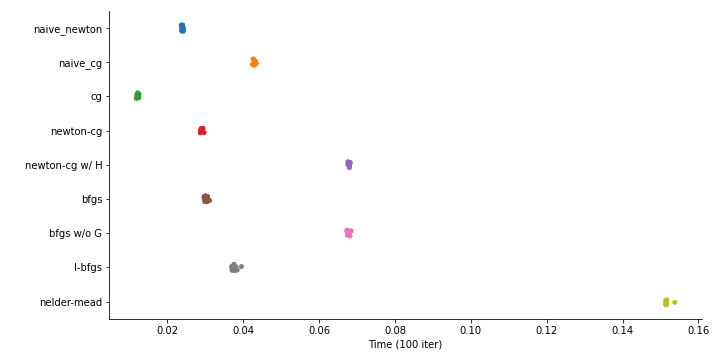
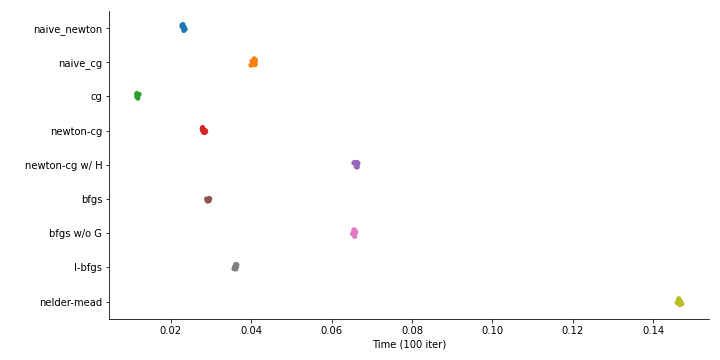
Update

diff --git a/static/slides/Lec13.html b/static/slides/Lec13.html
@@ -126,16 +126,16 @@ df
 
 ```
 ##    naive_newton  naive_cg        cg  ...  bfgs w/o G    l-bfgs  nelder-mead
-## 0      0.024026  0.042901  0.012505  ...    0.068000  0.039502     0.151316
-## 1      0.023727  0.042798  0.012187  ...    0.068270  0.038410     0.151484
-## 2      0.023827  0.043187  0.012215  ...    0.067479  0.038054     0.151309
-## 3      0.023731  0.043257  0.011944  ...    0.067384  0.037032     0.151572
-## 4      0.023656  0.043411  0.011793  ...    0.067449  0.037774     0.153752
-## 5      0.024240  0.043156  0.011898  ...    0.068136  0.037032     0.151465
-## 6      0.024140  0.043165  0.012130  ...    0.067547  0.037548     0.151656
-## 7      0.024186  0.042635  0.012265  ...    0.067350  0.036946     0.151502
-## 8      0.023961  0.042774  0.012494  ...    0.067298  0.037205     0.151382
-## 9      0.024231  0.042423  0.012336  ...    0.068449  0.037017     0.151528
+## 0      0.023563  0.040446  0.012082  ...    0.065788  0.036301     0.146798
+## 1      0.023060  0.040964  0.011677  ...    0.065560  0.035865     0.146410
+## 2      0.023302  0.041063  0.011598  ...    0.065504  0.036052     0.146640
+## 3      0.022774  0.040909  0.011547  ...    0.065739  0.035793     0.146002
+## 4      0.023025  0.040963  0.011583  ...    0.065754  0.036427     0.146700
+## 5      0.023001  0.040741  0.011775  ...    0.065971  0.035845     0.146597
+## 6      0.022881  0.040973  0.011757  ...    0.065741  0.036109     0.146857
+## 7      0.023208  0.040178  0.011600  ...    0.065504  0.036133     0.146382
+## 8      0.022823  0.039915  0.011462  ...    0.065885  0.036326     0.147206
+## 9      0.022740  0.040594  0.011547  ...    0.065205  0.035679     0.146789
 ## 
 ## [10 rows x 9 columns]
 ```
@@ -187,17 +187,17 @@ df
 
 ```
 ##         variable     value       cost_func
-## 0   naive_newton  0.004888  Well-cond quad
-## 1   naive_newton  0.004761  Well-cond quad
-## 2   naive_newton  0.004758  Well-cond quad
-## 3   naive_newton  0.004769  Well-cond quad
-## 4   naive_newton  0.004760  Well-cond quad
+## 0   naive_newton  0.004722  Well-cond quad
+## 1   naive_newton  0.004614  Well-cond quad
+## 2   naive_newton  0.004580  Well-cond quad
+## 3   naive_newton  0.004583  Well-cond quad
+## 4   naive_newton  0.004608  Well-cond quad
 ## ..           ...       ...             ...
-## 85   nelder-mead  0.050814      Rosenbrock
-## 86   nelder-mead  0.050640      Rosenbrock
-## 87   nelder-mead  0.053564      Rosenbrock
-## 88   nelder-mead  0.053616      Rosenbrock
-## 89   nelder-mead  0.052328      Rosenbrock
+## 85   nelder-mead  0.048077      Rosenbrock
+## 86   nelder-mead  0.047702      Rosenbrock
+## 87   nelder-mead  0.048485      Rosenbrock
+## 88   nelder-mead  0.047949      Rosenbrock
+## 89   nelder-mead  0.048108      Rosenbrock
 ## 
 ## [270 rows x 3 columns]
 ```
@@ -235,72 +235,72 @@ cProfile.run('run()', sort="tottime")
 ```
 
 ```
-##          112904 function calls (112804 primitive calls) in 0.048 seconds
+##          112904 function calls (112804 primitive calls) in 0.047 seconds
 ## 
 ##    Ordered by: internal time
 ## 
 ##    ncalls  tottime  percall  cumtime  percall filename:lineno(function)
-##       100    0.010    0.000    0.047    0.000 _optimize.py:1253(_minimize_bfgs)
+##       100    0.010    0.000    0.046    0.000 _optimize.py:1253(_minimize_bfgs)
 ## 13700/13600    0.004    0.000    0.016    0.000 {built-in method numpy.core._multiarray_umath.implement_array_function}
 ##      4200    0.003    0.000    0.003    0.000 {method 'reduce' of 'numpy.ufunc' objects}
 ##      1000    0.002    0.000    0.003    0.000 &lt;string&gt;:8(gradient)
 ##      1000    0.002    0.000    0.006    0.000 &lt;string&gt;:2(f)
 ##       900    0.002    0.000    0.025    0.000 _linesearch.py:91(scalar_search_wolfe1)
 ##      2000    0.002    0.000    0.004    0.000 numeric.py:2388(array_equal)
-##       900    0.001    0.000    0.010    0.000 _linesearch.py:77(derphi)
 ##      2100    0.001    0.000    0.004    0.000 fromnumeric.py:69(_wrapreduction)
-##       900    0.001    0.000    0.013    0.000 _linesearch.py:73(phi)
+##       900    0.001    0.000    0.010    0.000 _linesearch.py:77(derphi)
 ##      5200    0.001    0.000    0.004    0.000 &lt;__array_function__ internals&gt;:177(dot)
+##       900    0.001    0.000    0.013    0.000 _linesearch.py:73(phi)
 ##      2100    0.001    0.000    0.001    0.000 shape_base.py:23(atleast_1d)
 ##      1000    0.001    0.000    0.008    0.000 _differentiable_functions.py:132(fun_wrapped)
 ##      1000    0.001    0.000    0.006    0.000 _differentiable_functions.py:162(grad_wrapped)
-##       900    0.001    0.000    0.027    0.000 _linesearch.py:31(line_search_wolfe1)
 ##       900    0.001    0.000    0.027    0.000 _optimize.py:1084(_line_search_wolfe12)
+##       900    0.001    0.000    0.026    0.000 _linesearch.py:31(line_search_wolfe1)
 ##      1000    0.001    0.000    0.012    0.000 _differentiable_functions.py:264(fun)
 ##      2100    0.001    0.000    0.001    0.000 {built-in method numpy.array}
-##      2000    0.001    0.000    0.001    0.000 {built-in method numpy.arange}
 ##      1000    0.001    0.000    0.003    0.000 _optimize.py:166(vecnorm)
 ##      2100    0.001    0.000    0.002    0.000 &lt;__array_function__ internals&gt;:177(atleast_1d)
+##      2000    0.001    0.000    0.001    0.000 {built-in method numpy.arange}
 ##      2100    0.001    0.000    0.002    0.000 &lt;__array_function__ internals&gt;:177(copy)
 ##      2000    0.000    0.000    0.005    0.000 &lt;__array_function__ internals&gt;:177(array_equal)
 ##      1000    0.000    0.000    0.002    0.000 fromnumeric.py:2160(sum)
 ##      2100    0.000    0.000    0.000    0.000 fromnumeric.py:70(&lt;dictcomp&gt;)
-##      8400    0.000    0.000    0.000    0.000 {built-in method numpy.asarray}
 ##       900    0.000    0.000    0.002    0.000 _differentiable_functions.py:240(update_x)
+##      8400    0.000    0.000    0.000    0.000 {built-in method numpy.asarray}
 ##      1000    0.000    0.000    0.008    0.000 _differentiable_functions.py:270(grad)
-##      2000    0.000    0.000    0.000    0.000 {method 'copy' of 'numpy.ndarray' objects}
 ##       100    0.000    0.000    0.002    0.000 _differentiable_functions.py:86(__init__)
 ##      1000    0.000    0.000    0.002    0.000 fromnumeric.py:2675(amax)
+##       100    0.000    0.000    0.047    0.000 _minimize.py:45(minimize)
+##      2000    0.000    0.000    0.000    0.000 {method 'copy' of 'numpy.ndarray' objects}
 ##      2000    0.000    0.000    0.002    0.000 {method 'all' of 'numpy.ndarray' objects}
-##       100    0.000    0.000    0.048    0.000 _minimize.py:45(minimize)
-##      1900    0.000    0.000    0.000    0.000 {built-in method numpy.zeros}
 ##      2000    0.000    0.000    0.002    0.000 _methods.py:60(_all)
-##      5200    0.000    0.000    0.000    0.000 multiarray.py:736(dot)
+##      1900    0.000    0.000    0.000    0.000 {built-in method numpy.zeros}
 ##      2100    0.000    0.000    0.001    0.000 function_base.py:846(copy)
+##      5200    0.000    0.000    0.000    0.000 multiarray.py:736(dot)
 ##      1000    0.000    0.000    0.003    0.000 &lt;__array_function__ internals&gt;:177(sum)
 ##      1100    0.000    0.000    0.008    0.000 _differentiable_functions.py:249(_update_fun)
-##      1000    0.000    0.000    0.003    0.000 &lt;__array_function__ internals&gt;:177(amax)
-##      1000    0.000    0.000    0.000    0.000 {method 'astype' of 'numpy.ndarray' objects}
+##      2100    0.000    0.000    0.000    0.000 {method 'items' of 'dict' objects}
 ##      1100    0.000    0.000    0.006    0.000 _differentiable_functions.py:254(_update_grad)
+##      1000    0.000    0.000    0.003    0.000 &lt;__array_function__ internals&gt;:177(amax)
 ##      1000    0.000    0.000    0.008    0.000 _differentiable_functions.py:154(update_fun)
+##      1000    0.000    0.000    0.000    0.000 {method 'astype' of 'numpy.ndarray' objects}
 ##      1000    0.000    0.000    0.006    0.000 _differentiable_functions.py:166(update_grad)
 ##       100    0.000    0.000    0.000    0.000 linalg.py:2349(norm)
 ##      2500    0.000    0.000    0.000    0.000 {built-in method builtins.isinstance}
-##      1000    0.000    0.000    0.000    0.000 numeric.py:1859(isscalar)
 ##      2100    0.000    0.000    0.000    0.000 function_base.py:842(_copy_dispatcher)
+##      1000    0.000    0.000    0.000    0.000 numeric.py:1859(isscalar)
 ##       900    0.000    0.000    0.000    0.000 {built-in method builtins.min}
 ##      2000    0.000    0.000    0.000    0.000 numeric.py:2384(_array_equal_dispatcher)
 ##      2400    0.000    0.000    0.000    0.000 {built-in method builtins.len}
 ##      2200    0.000    0.000    0.000    0.000 {method 'append' of 'list' objects}
 ##      2100    0.000    0.000    0.000    0.000 shape_base.py:19(_atleast_1d_dispatcher)
-##      2100    0.000    0.000    0.000    0.000 {method 'items' of 'dict' objects}
 ##       100    0.000    0.000    0.000    0.000 twodim_base.py:161(eye)
 ##      2200    0.000    0.000    0.000    0.000 {built-in method numpy.asanyarray}
 ##       100    0.000    0.000    0.002    0.000 _optimize.py:175(_prepare_scalar_function)
-##      1000    0.000    0.000    0.000    0.000 fromnumeric.py:2670(_amax_dispatcher)
 ##      1000    0.000    0.000    0.000    0.000 fromnumeric.py:2155(_sum_dispatcher)
-##         1    0.000    0.000    0.048    0.048 &lt;string&gt;:1(run)
+##      1000    0.000    0.000    0.000    0.000 fromnumeric.py:2670(_amax_dispatcher)
 ##       100    0.000    0.000    0.000    0.000 shape_base.py:81(atleast_2d)
+##         1    0.000    0.000    0.047    0.047 &lt;string&gt;:1(run)
 ##       900    0.000    0.000    0.000    0.000 {method 'pop' of 'dict' objects}
 ##       100    0.000    0.000    0.000    0.000 _minimize.py:933(standardize_constraints)
 ##       100    0.000    0.000    0.000    0.000 fromnumeric.py:2305(any)
@@ -313,19 +313,19 @@ cProfile.run('run()', sort="tottime")
 ##       100    0.000    0.000    0.000    0.000 {method 'any' of 'numpy.ndarray' objects}
 ##       100    0.000    0.000    0.000    0.000 {built-in method builtins.getattr}
 ##       100    0.000    0.000    0.000    0.000 _methods.py:54(_any)
+##       200    0.000    0.000    0.000    0.000 {built-in method builtins.issubclass}
 ##       100    0.000    0.000    0.000    0.000 {method 'ravel' of 'numpy.ndarray' objects}
 ##       100    0.000    0.000    0.000    0.000 linalg.py:116(isComplexType)
-##       200    0.000    0.000    0.000    0.000 {built-in method builtins.issubclass}
 ##       100    0.000    0.000    0.000    0.000 _base.py:1291(isspmatrix)
 ##       100    0.000    0.000    0.000    0.000 _optimize.py:147(_check_unknown_options)
-##         1    0.000    0.000    0.048    0.048 {built-in method builtins.exec}
-##       100    0.000    0.000    0.000    0.000 {method 'lower' of 'str' objects}
+##         1    0.000    0.000    0.047    0.047 {built-in method builtins.exec}
 ##       100    0.000    0.000    0.000    0.000 fromnumeric.py:2300(_any_dispatcher)
-##       100    0.000    0.000    0.000    0.000 {method 'setdefault' of 'dict' objects}
 ##       100    0.000    0.000    0.000    0.000 linalg.py:2345(_norm_dispatcher)
+##       100    0.000    0.000    0.000    0.000 {method 'lower' of 'str' objects}
+##       100    0.000    0.000    0.000    0.000 {method 'setdefault' of 'dict' objects}
 ##       100    0.000    0.000    0.000    0.000 _optimize.py:255(hess)
 ##       100    0.000    0.000    0.000    0.000 shape_base.py:77(_atleast_2d_dispatcher)
-##         1    0.000    0.000    0.048    0.048 &lt;string&gt;:1(&lt;module&gt;)
+##         1    0.000    0.000    0.047    0.047 &lt;string&gt;:1(&lt;module&gt;)
 ##         1    0.000    0.000    0.000    0.000 {method 'disable' of '_lsprof.Profiler' objects}
 ```
 ]
@@ -345,42 +345,42 @@ cProfile.run('run()', sort="tottime")
 ```
 
 ```
-##          756504 function calls in 0.279 seconds
+##          756504 function calls in 0.268 seconds
 ## 
 ##    Ordered by: internal time
 ## 
 ##    ncalls  tottime  percall  cumtime  percall filename:lineno(function)
-##       100    0.075    0.001    0.277    0.003 _optimize.py:635(_minimize_neldermead)
-##     18600    0.035    0.000    0.089    0.000 &lt;string&gt;:2(f)
-##     38000    0.029    0.000    0.029    0.000 {method 'reduce' of 'numpy.ufunc' objects}
-##     86400    0.017    0.000    0.110    0.000 {built-in method numpy.core._multiarray_umath.implement_array_function}
+##       100    0.071    0.001    0.267    0.003 _optimize.py:635(_minimize_neldermead)
+##     18600    0.034    0.000    0.087    0.000 &lt;string&gt;:2(f)
+##     38000    0.028    0.000    0.028    0.000 {method 'reduce' of 'numpy.ufunc' objects}
+##     86400    0.016    0.000    0.107    0.000 {built-in method numpy.core._multiarray_umath.implement_array_function}
 ##     28500    0.013    0.000    0.041    0.000 fromnumeric.py:69(_wrapreduction)
-##     18600    0.011    0.000    0.120    0.000 _optimize.py:491(function_wrapper)
-##     18600    0.008    0.000    0.036    0.000 fromnumeric.py:2160(sum)
-##     29400    0.007    0.000    0.020    0.000 fromnumeric.py:51(_wrapfunc)
+##     18600    0.011    0.000    0.117    0.000 _optimize.py:491(function_wrapper)
+##     18600    0.008    0.000    0.035    0.000 fromnumeric.py:2160(sum)
+##     29400    0.007    0.000    0.019    0.000 fromnumeric.py:51(_wrapfunc)
 ##     19600    0.006    0.000    0.006    0.000 {method 'take' of 'numpy.ndarray' objects}
 ##     28500    0.005    0.000    0.005    0.000 fromnumeric.py:70(&lt;dictcomp&gt;)
 ##     18800    0.005    0.000    0.005    0.000 {built-in method numpy.array}
-##     18600    0.005    0.000    0.005    0.000 {built-in method numpy.arange}
-##     18600    0.004    0.000    0.045    0.000 &lt;__array_function__ internals&gt;:177(sum)
-##     19600    0.004    0.000    0.017    0.000 fromnumeric.py:93(take)
-##     19600    0.004    0.000    0.026    0.000 &lt;__array_function__ internals&gt;:177(take)
+##     18600    0.004    0.000    0.004    0.000 {built-in method numpy.arange}
+##     19600    0.004    0.000    0.016    0.000 fromnumeric.py:93(take)
+##     19600    0.004    0.000    0.025    0.000 &lt;__array_function__ internals&gt;:177(take)
+##     18600    0.004    0.000    0.044    0.000 &lt;__array_function__ internals&gt;:177(sum)
 ##     18600    0.004    0.000    0.016    0.000 &lt;__array_function__ internals&gt;:177(copy)
 ##      9800    0.004    0.000    0.004    0.000 {method 'argsort' of 'numpy.ndarray' objects}
-##      9600    0.003    0.000    0.006    0.000 fromnumeric.py:1755(ravel)
 ##      9700    0.003    0.000    0.017    0.000 fromnumeric.py:2675(amax)
+##      9600    0.003    0.000    0.006    0.000 fromnumeric.py:1755(ravel)
 ##     18600    0.003    0.000    0.003    0.000 {method 'copy' of 'numpy.ndarray' objects}
 ##     47000    0.003    0.000    0.003    0.000 {built-in method builtins.isinstance}
+##      9800    0.002    0.000    0.009    0.000 fromnumeric.py:1012(argsort)
+##      9800    0.002    0.000    0.014    0.000 &lt;__array_function__ internals&gt;:177(argsort)
 ##     18600    0.002    0.000    0.007    0.000 function_base.py:846(copy)
-##      9800    0.002    0.000    0.010    0.000 fromnumeric.py:1012(argsort)
-##      9800    0.002    0.000    0.015    0.000 &lt;__array_function__ internals&gt;:177(argsort)
-##      9600    0.002    0.000    0.011    0.000 &lt;__array_function__ internals&gt;:177(ravel)
+##      9600    0.002    0.000    0.010    0.000 &lt;__array_function__ internals&gt;:177(ravel)
 ##      9700    0.002    0.000    0.022    0.000 &lt;__array_function__ internals&gt;:177(amax)
 ##     18600    0.002    0.000    0.003    0.000 numeric.py:1859(isscalar)
 ##     29500    0.002    0.000    0.002    0.000 {built-in method builtins.getattr}
-##      9600    0.001    0.000    0.001    0.000 {method 'ravel' of 'numpy.ndarray' objects}
 ##     28500    0.001    0.000    0.001    0.000 {method 'items' of 'dict' objects}
 ##     18600    0.001    0.000    0.001    0.000 fromnumeric.py:2155(_sum_dispatcher)
+##      9600    0.001    0.000    0.001    0.000 {method 'ravel' of 'numpy.ndarray' objects}
 ##     18600    0.001    0.000    0.001    0.000 function_base.py:842(_copy_dispatcher)
 ##     19600    0.001    0.000    0.001    0.000 fromnumeric.py:89(_take_dispatcher)
 ##     18800    0.001    0.000    0.001    0.000 {built-in method numpy.asarray}
@@ -388,38 +388,38 @@ cProfile.run('run()', sort="tottime")
 ##      9600    0.001    0.000    0.001    0.000 fromnumeric.py:1751(_ravel_dispatcher)
 ##      9700    0.001    0.000    0.001    0.000 fromnumeric.py:2670(_amax_dispatcher)
 ##      9700    0.001    0.000    0.001    0.000 {built-in method numpy.asanyarray}
-##       100    0.000    0.000    0.278    0.003 _minimize.py:45(minimize)
+##       100    0.000    0.000    0.268    0.003 _minimize.py:45(minimize)
 ##       100    0.000    0.000    0.000    0.000 shape_base.py:23(atleast_1d)
-##         1    0.000    0.000    0.279    0.279 &lt;string&gt;:1(run)
+##         1    0.000    0.000    0.268    0.268 &lt;string&gt;:1(run)
 ##       100    0.000    0.000    0.000    0.000 _minimize.py:933(standardize_constraints)
-##       100    0.000    0.000    0.000    0.000 numeric.py:289(full)
 ##       100    0.000    0.000    0.000    0.000 type_check.py:84(asfarray)
+##       100    0.000    0.000    0.000    0.000 numeric.py:289(full)
 ##       200    0.000    0.000    0.000    0.000 {built-in method numpy.empty}
 ##       100    0.000    0.000    0.000    0.000 numerictypes.py:356(issubdtype)
-##       100    0.000    0.000    0.000    0.000 fromnumeric.py:2305(any)
 ##       100    0.000    0.000    0.000    0.000 fromnumeric.py:2800(amin)
+##       100    0.000    0.000    0.000    0.000 fromnumeric.py:2305(any)
 ##       100    0.000    0.000    0.000    0.000 &lt;__array_function__ internals&gt;:177(copyto)
-##       200    0.000    0.000    0.000    0.000 numerictypes.py:282(issubclass_)
-##       100    0.000    0.000    0.000    0.000 &lt;__array_function__ internals&gt;:177(any)
 ##       100    0.000    0.000    0.000    0.000 {method 'flatten' of 'numpy.ndarray' objects}
 ##       100    0.000    0.000    0.000    0.000 &lt;__array_function__ internals&gt;:177(atleast_1d)
+##       200    0.000    0.000    0.000    0.000 numerictypes.py:282(issubclass_)
+##       100    0.000    0.000    0.000    0.000 &lt;__array_function__ internals&gt;:177(any)
 ##       100    0.000    0.000    0.000    0.000 &lt;__array_function__ internals&gt;:177(asfarray)
 ##       100    0.000    0.000    0.000    0.000 &lt;__array_function__ internals&gt;:177(amin)
-##       100    0.000    0.000    0.000    0.000 _optimize.py:484(_wrap_scalar_function_maxfun_validation)
 ##       300    0.000    0.000    0.000    0.000 {built-in method builtins.issubclass}
-##       200    0.000    0.000    0.000    0.000 {method 'setdefault' of 'dict' objects}
+##       100    0.000    0.000    0.000    0.000 _optimize.py:484(_wrap_scalar_function_maxfun_validation)
 ##       200    0.000    0.000    0.000    0.000 {built-in method builtins.len}
+##       200    0.000    0.000    0.000    0.000 {method 'setdefault' of 'dict' objects}
 ##       200    0.000    0.000    0.000    0.000 {built-in method builtins.callable}
 ##       100    0.000    0.000    0.000    0.000 _optimize.py:147(_check_unknown_options)
-##         1    0.000    0.000    0.279    0.279 {built-in method builtins.exec}
-##       100    0.000    0.000    0.000    0.000 {method 'lower' of 'str' objects}
-##       100    0.000    0.000    0.000    0.000 fromnumeric.py:2300(_any_dispatcher)
+##         1    0.000    0.000    0.268    0.268 {built-in method builtins.exec}
 ##       100    0.000    0.000    0.000    0.000 multiarray.py:1071(copyto)
+##       100    0.000    0.000    0.000    0.000 {method 'lower' of 'str' objects}
 ##       100    0.000    0.000    0.000    0.000 {method 'append' of 'list' objects}
+##       100    0.000    0.000    0.000    0.000 fromnumeric.py:2300(_any_dispatcher)
 ##       100    0.000    0.000    0.000    0.000 type_check.py:80(_asfarray_dispatcher)
 ##       100    0.000    0.000    0.000    0.000 fromnumeric.py:2795(_amin_dispatcher)
 ##       100    0.000    0.000    0.000    0.000 shape_base.py:19(_atleast_1d_dispatcher)
-##         1    0.000    0.000    0.279    0.279 &lt;string&gt;:1(&lt;module&gt;)
+##         1    0.000    0.000    0.268    0.268 &lt;string&gt;:1(&lt;module&gt;)
 ##         1    0.000    0.000    0.000    0.000 {method 'disable' of '_lsprof.Profiler' objects}
 ```
 ]
@@ -1187,23 +1187,25 @@ optimize.minimize(f, np.ones(n), jac=grad, method="BFGS", tol=1e-10)
 
 ---
 
+.small[
 
 ```python
-g = sns.catplot(
+sns.catplot(
   y = "method", x = "value", hue = "variable", col="name", kind="bar",
-  data = df.melt(id_vars=["name","method"], value_vars=["nit", "nfev", "njev", "nhev"]).astype({"value": "float64"})
+  data = df.melt(
+    id_vars=["name","method"], value_vars=["nit", "nfev", "njev", "nhev"]
+  ).astype(
+    {"value": "float64"}
+  ).query(
+    "name != '2d'"
+  )
+).set(
+  xscale="log"
 )
-_ = [[ax.set_xscale('log') for row in g.axes for ax in row]]
-plt.show()
 ```
 
-```
-## /opt/homebrew/lib/R/4.1/site-library/reticulate/python/rpytools/call.py:13: UserWarning: Attempted to set non-positive left xlim on a log-scaled axis.
-## Invalid limit will be ignored.
-##   res = rpycall.call_r_function(f, *args, **kwargs)
-```
-
-&lt;img src="Lec13_files/figure-html/unnamed-chunk-35-11.png" width="2480" style="display: block; margin: auto;" /&gt;
+&lt;img src="Lec13_files/figure-html/unnamed-chunk-35-11.png" width="5536" style="display: block; margin: auto;" /&gt;
+]
 
 ---
 
